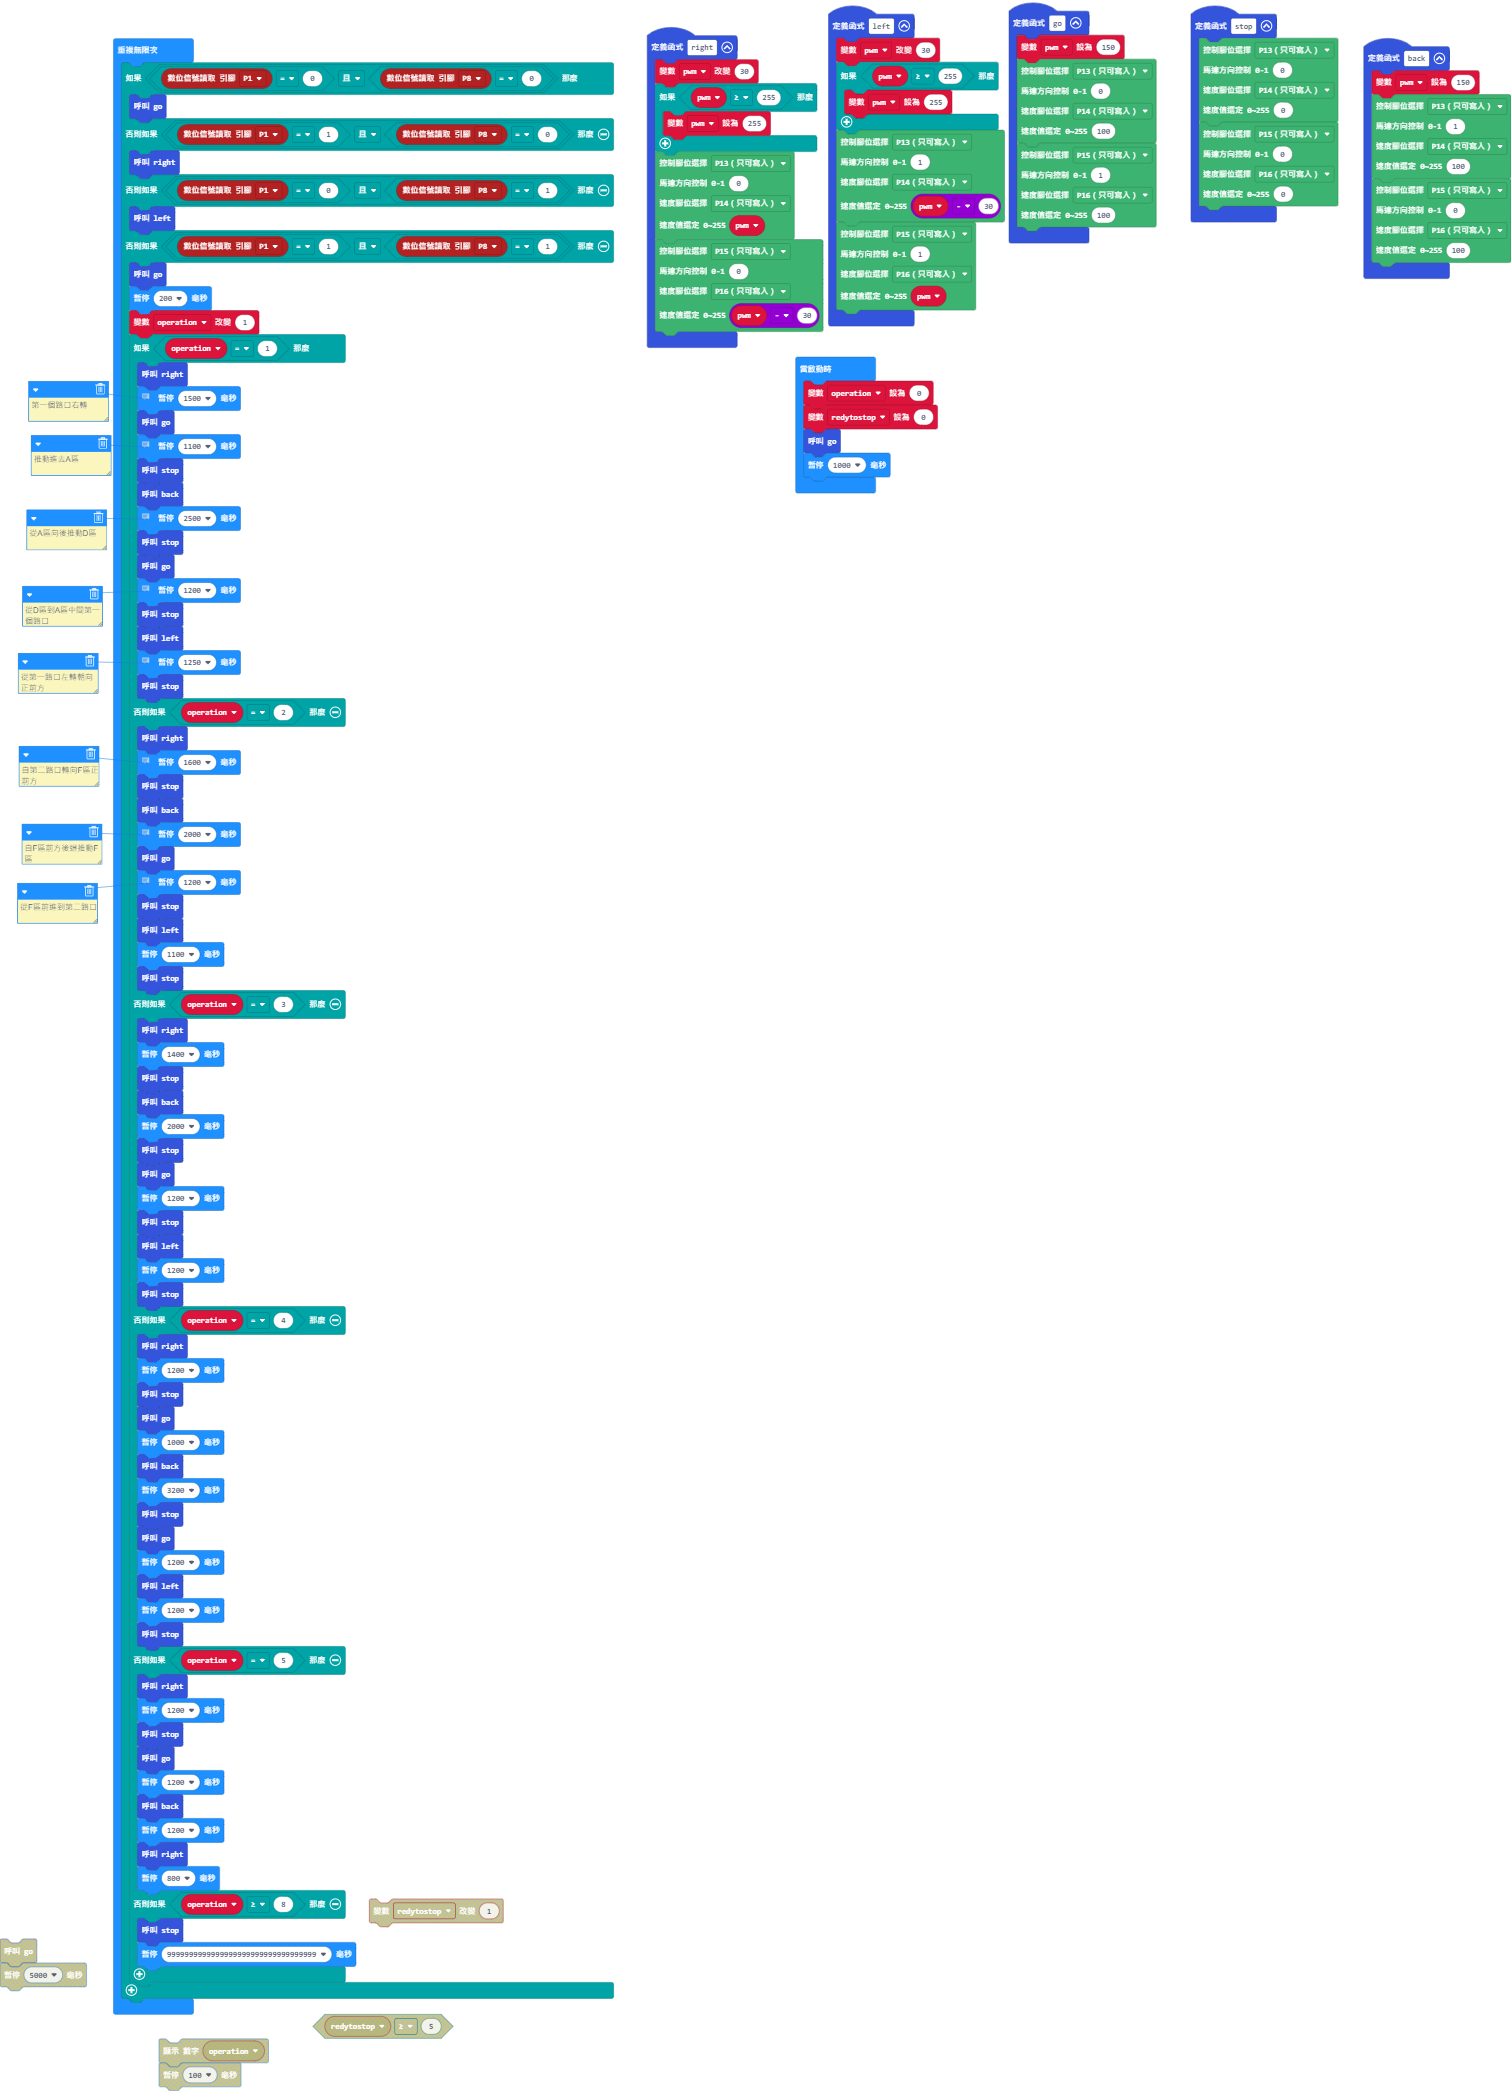
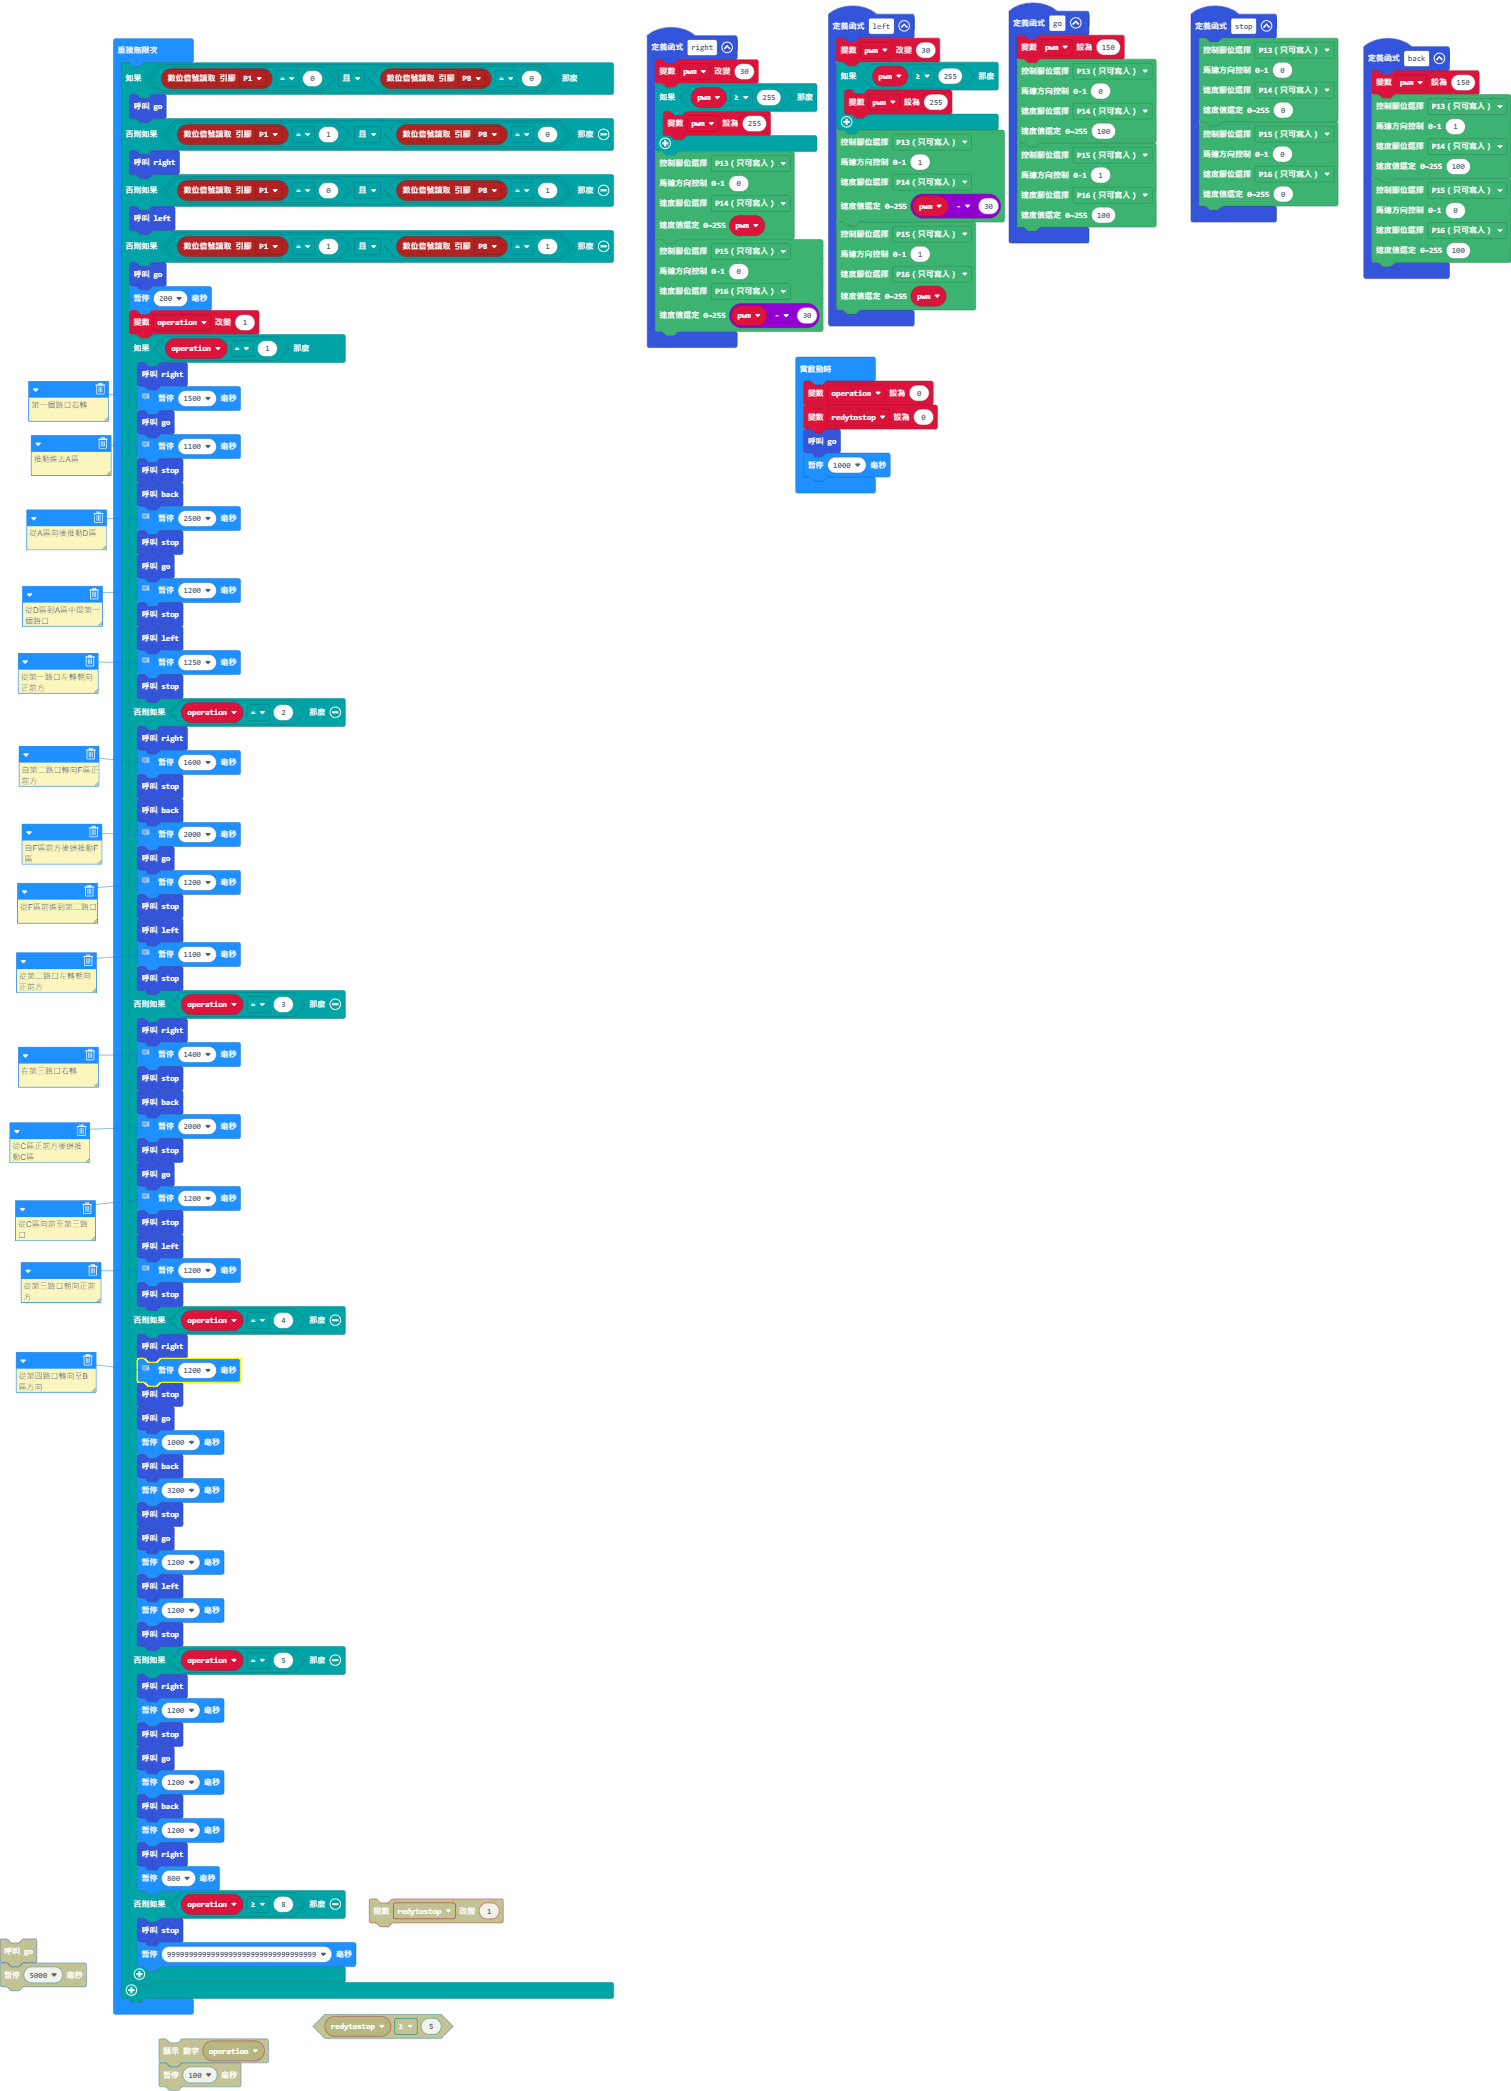
更新 main.blocks, main.ts

Changed region(s): [[0.0, 0.4352, 0.1555, 0.6839], [0.0933, 0.6528, 0.1555, 0.6839], [0.0933, 0.4352, 0.1555, 0.4663]]

diff --git a/main.ts b/main.ts
@@ -127,23 +127,29 @@ basic.forever(function () {
             basic.pause(1200)
             stop()
             left()
+            // 從第二路口左轉朝向正前方
             basic.pause(1100)
             stop()
         } else if (operation == 3) {
             right()
+            // 在第三路口右轉
             basic.pause(1400)
             stop()
             back()
+            // 從C區正前方後退推動C區
             basic.pause(2000)
             stop()
             go()
+            // 從C區向前至第三路口
             basic.pause(1200)
             stop()
             left()
+            // 從第三路口朝向正前方
             basic.pause(1200)
             stop()
         } else if (operation == 4) {
             right()
+            // 從第四路口轉向至B區方向
             basic.pause(1200)
             stop()
             go()
